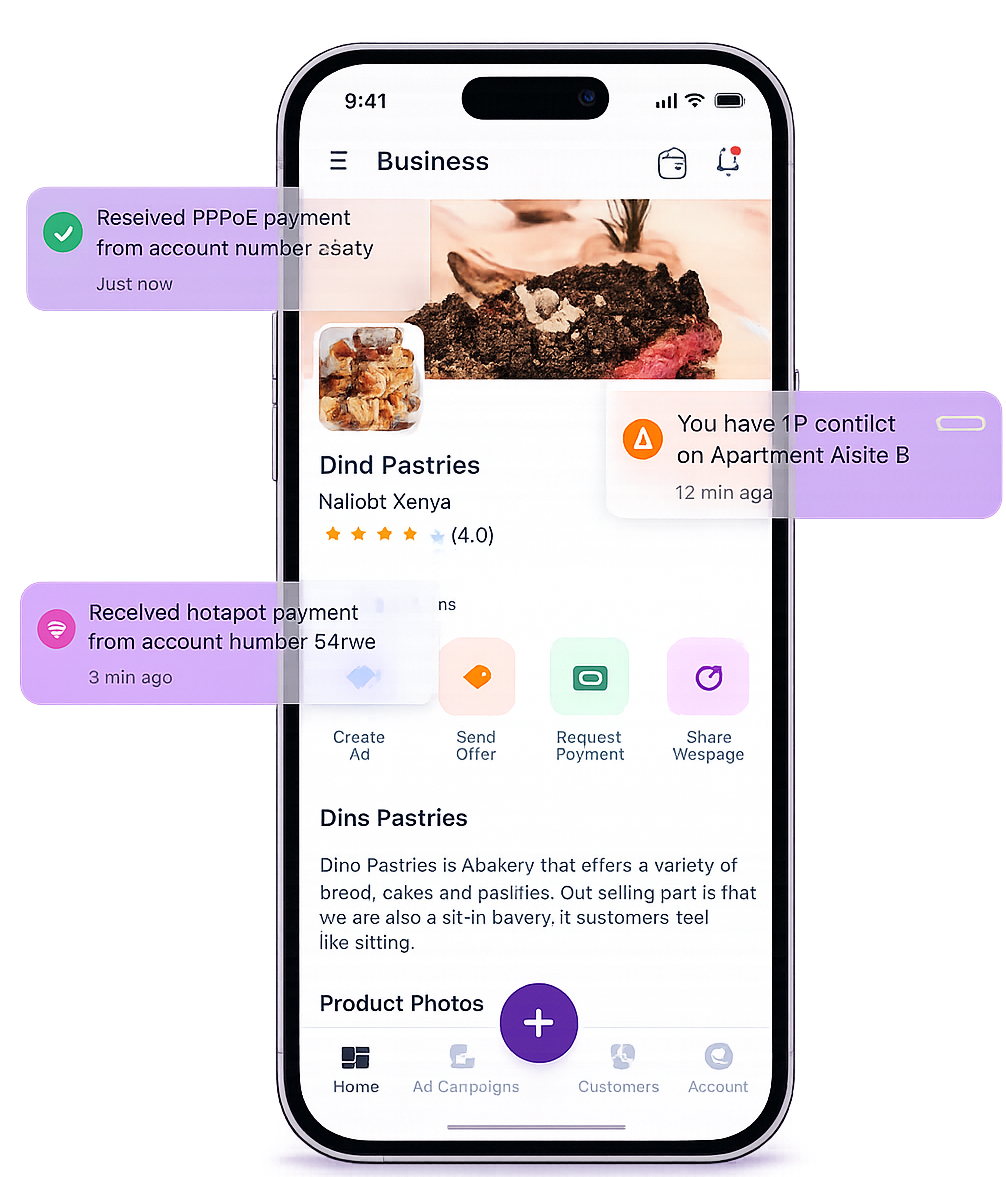
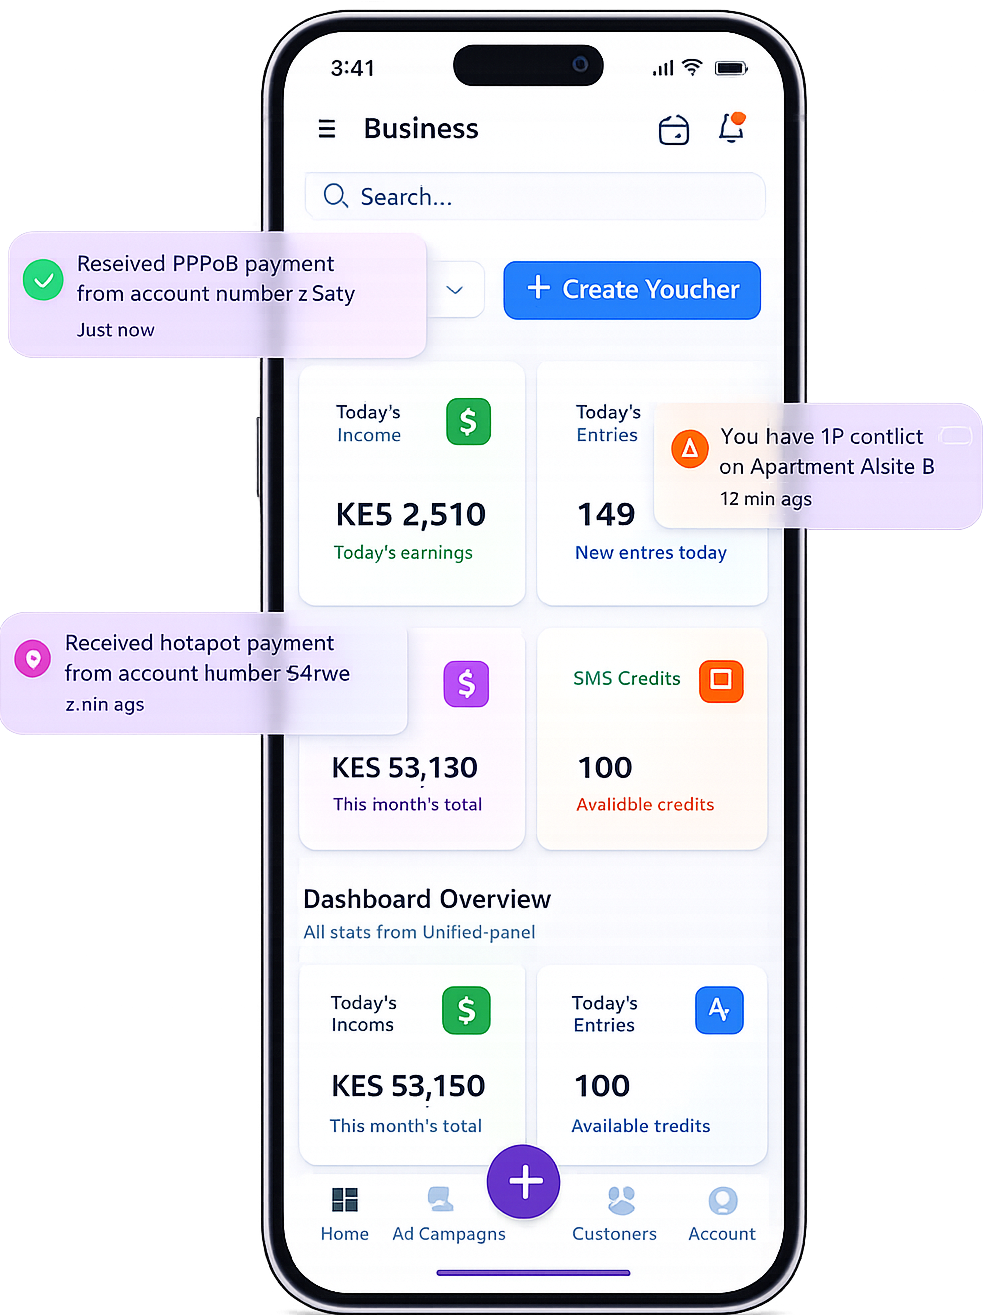
Updated testmonial page

diff --git a/src/app/components/Testimonials.js b/src/app/components/Testimonials.js
@@ -71,8 +71,8 @@ export default function Testimonials() {
                 {/* Marquee Effect - First Row */}
                 <div className="relative mb-8">
                     {/* Gradient Masks */}
-                    <div className="absolute top-0 left-0 w-32 h-full bg-gradient-to-r from-gray-50 to-transparent z-10 pointer-events-none"></div>
-                    <div className="absolute top-0 right-0 w-32 h-full bg-gradient-to-l from-gray-50 to-transparent z-10 pointer-events-none"></div>
+                    <div className="absolute top-0 -left-8 w-48 h-full bg-gradient-to-r from-gray-50 to-transparent z-10 pointer-events-none"></div>
+                    <div className="absolute top-0 -right-8 w-48 h-full bg-gradient-to-l from-gray-50 to-transparent z-10 pointer-events-none"></div>
 
                     <motion.div
                         className="flex gap-6"
@@ -87,31 +87,31 @@ export default function Testimonials() {
                         {[...testimonials.slice(0, 3), ...testimonials.slice(0, 3), ...testimonials.slice(0, 3)].map((testimonial, index) => (
                             <div
                                 key={index}
-                                className="bg-white rounded-2xl p-8 shadow-lg border border-gray-100 min-w-[400px] flex-shrink-0"
+                                className="bg-white rounded-2xl p-6 shadow-lg border border-gray-100 w-[380px] flex-shrink-0 flex flex-col"
                             >
                                 {/* Rating Stars */}
-                                <div className="flex gap-1 mb-4">
+                                <div className="flex gap-1 mb-3">
                                     {[...Array(testimonial.rating)].map((_, i) => (
-                                        <svg key={i} className="w-5 h-5 text-yellow-400" fill="currentColor" viewBox="0 0 20 20">
+                                        <svg key={i} className="w-4 h-4 text-yellow-400" fill="currentColor" viewBox="0 0 20 20">
                                             <path d="M9.049 2.927c.3-.921 1.603-.921 1.902 0l1.07 3.292a1 1 0 00.95.69h3.462c.969 0 1.371 1.24.588 1.81l-2.8 2.034a1 1 0 00-.364 1.118l1.07 3.292c.3.921-.755 1.688-1.54 1.118l-2.8-2.034a1 1 0 00-1.175 0l-2.8 2.034c-.784.57-1.838-.197-1.539-1.118l1.07-3.292a1 1 0 00-.364-1.118L2.98 8.72c-.783-.57-.38-1.81.588-1.81h3.461a1 1 0 00.951-.69l1.07-3.292z" />
                                         </svg>
                                     ))}
                                 </div>
 
                                 {/* Testimonial Text */}
-                                <p className="text-gray-700 mb-6 leading-relaxed">
+                                <p className="text-gray-700 mb-5 leading-relaxed text-sm line-clamp-4 flex-grow">
                                     "{testimonial.text}"
                                 </p>
 
                                 {/* Author Info */}
-                                <div className="flex items-center gap-4 border-t border-gray-100 pt-6">
-                                    <div className="w-12 h-12 bg-gradient-to-br from-tappi-purple to-tappi-purple-dark rounded-full flex items-center justify-center text-white font-bold flex-shrink-0">
+                                <div className="flex items-center gap-3 border-t border-gray-100 pt-4">
+                                    <div className="w-10 h-10 bg-gradient-to-br from-tappi-purple to-tappi-purple-dark rounded-full flex items-center justify-center text-white font-bold text-sm flex-shrink-0">
                                         {testimonial.image}
                                     </div>
-                                    <div>
-                                        <div className="font-bold text-gray-900">{testimonial.name}</div>
-                                        <div className="text-sm text-gray-600">{testimonial.company}</div>
-                                        <div className="text-xs text-gray-500">{testimonial.location}</div>
+                                    <div className="min-w-0">
+                                        <div className="font-bold text-gray-900 text-sm truncate">{testimonial.name}</div>
+                                        <div className="text-xs text-gray-600 truncate">{testimonial.company}</div>
+                                        <div className="text-xs text-gray-500 truncate">{testimonial.location}</div>
                                     </div>
                                 </div>
                             </div>
@@ -122,8 +122,8 @@ export default function Testimonials() {
                 {/* Marquee Effect - Second Row (Reverse Direction) */}
                 <div className="relative">
                     {/* Gradient Masks */}
-                    <div className="absolute top-0 left-0 w-32 h-full bg-gradient-to-r from-gray-50 to-transparent z-10 pointer-events-none"></div>
-                    <div className="absolute top-0 right-0 w-32 h-full bg-gradient-to-l from-gray-50 to-transparent z-10 pointer-events-none"></div>
+                    <div className="absolute top-0 -left-8 w-48 h-full bg-gradient-to-r from-gray-50 to-transparent z-10 pointer-events-none"></div>
+                    <div className="absolute top-0 -right-8 w-48 h-full bg-gradient-to-l from-gray-50 to-transparent z-10 pointer-events-none"></div>
 
                     <motion.div
                         className="flex gap-6"
@@ -138,31 +138,31 @@ export default function Testimonials() {
                         {[...testimonials.slice(3, 6), ...testimonials.slice(3, 6), ...testimonials.slice(3, 6)].map((testimonial, index) => (
                             <div
                                 key={index}
-                                className="bg-white rounded-2xl p-8 shadow-lg border border-gray-100 min-w-[400px] flex-shrink-0"
+                                className="bg-white rounded-2xl p-6 shadow-lg border border-gray-100 w-[380px] flex-shrink-0 flex flex-col"
                             >
                                 {/* Rating Stars */}
-                                <div className="flex gap-1 mb-4">
+                                <div className="flex gap-1 mb-3">
                                     {[...Array(testimonial.rating)].map((_, i) => (
-                                        <svg key={i} className="w-5 h-5 text-yellow-400" fill="currentColor" viewBox="0 0 20 20">
+                                        <svg key={i} className="w-4 h-4 text-yellow-400" fill="currentColor" viewBox="0 0 20 20">
                                             <path d="M9.049 2.927c.3-.921 1.603-.921 1.902 0l1.07 3.292a1 1 0 00.95.69h3.462c.969 0 1.371 1.24.588 1.81l-2.8 2.034a1 1 0 00-.364 1.118l1.07 3.292c.3.921-.755 1.688-1.54 1.118l-2.8-2.034a1 1 0 00-1.175 0l-2.8 2.034c-.784.57-1.838-.197-1.539-1.118l1.07-3.292a1 1 0 00-.364-1.118L2.98 8.72c-.783-.57-.38-1.81.588-1.81h3.461a1 1 0 00.951-.69l1.07-3.292z" />
                                         </svg>
                                     ))}
                                 </div>
 
                                 {/* Testimonial Text */}
-                                <p className="text-gray-700 mb-6 leading-relaxed">
+                                <p className="text-gray-700 mb-5 leading-relaxed text-sm line-clamp-4 flex-grow">
                                     "{testimonial.text}"
                                 </p>
 
                                 {/* Author Info */}
-                                <div className="flex items-center gap-4 border-t border-gray-100 pt-6">
-                                    <div className="w-12 h-12 bg-gradient-to-br from-tappi-green to-green-600 rounded-full flex items-center justify-center text-white font-bold flex-shrink-0">
+                                <div className="flex items-center gap-3 border-t border-gray-100 pt-4">
+                                    <div className="w-10 h-10 bg-gradient-to-br from-tappi-green to-green-600 rounded-full flex items-center justify-center text-white font-bold text-sm flex-shrink-0">
                                         {testimonial.image}
                                     </div>
-                                    <div>
-                                        <div className="font-bold text-gray-900">{testimonial.name}</div>
-                                        <div className="text-sm text-gray-600">{testimonial.company}</div>
-                                        <div className="text-xs text-gray-500">{testimonial.location}</div>
+                                    <div className="min-w-0">
+                                        <div className="font-bold text-gray-900 text-sm truncate">{testimonial.name}</div>
+                                        <div className="text-xs text-gray-600 truncate">{testimonial.company}</div>
+                                        <div className="text-xs text-gray-500 truncate">{testimonial.location}</div>
                                     </div>
                                 </div>
                             </div>

diff --git a/src/app/page.js b/src/app/page.js
@@ -65,12 +65,12 @@ export default function Home() {
                 {/* Background Glow */}
                 <div className="absolute top-1/2 left-1/2 -translate-x-1/2 -translate-y-1/2 w-[120%] h-[120%] bg-purple-600/30 blur-[80px] rounded-full pointer-events-none"></div>
 
-                <div className="relative z-10 w-64 h-64 lg:w-96 lg:h-96">
+                <div className="relative z-10 w-[500px] h-[500px] lg:w-96 lg:h-96">
                   <Image
                     src="/hero-phone.png"
-                    alt="Pace WISP Logo"
-                    width={400}
-                    height={400}
+                    alt="Hero phone"
+                    width={500}
+                    height={500}
                     className="w-full h-full object-contain drop-shadow-2xl hover:scale-105 transition-transform duration-500"
                     priority
                   />
